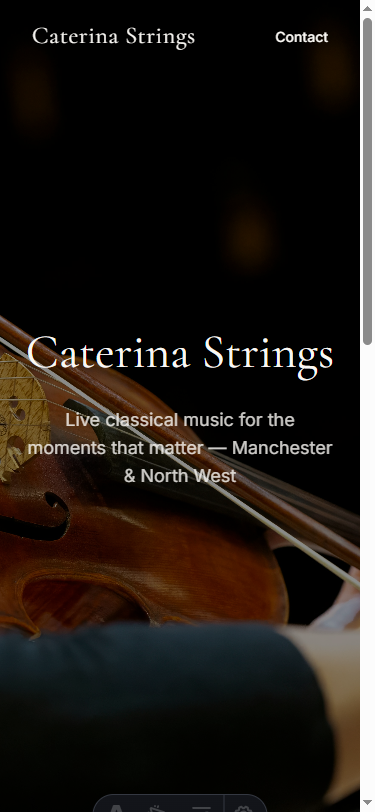
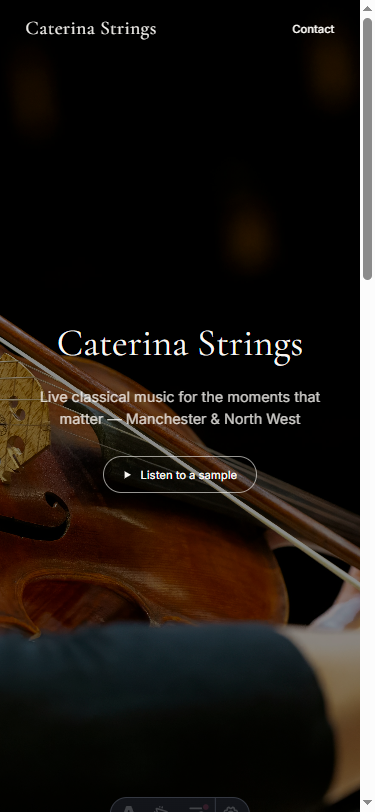
fix: card images, footer 3 colonne, listen button hero
- Card images: img netta in cima (330px desktop / 260px mobile), overlay rimossi, contenuto cream sotto
- Footer: 3 colonne brand/Explore/Get in Touch su desktop, stack mobile, copyright bottom bar
- Hero: ghost button Listen to a sample, pill, border cream/60%, icona play SVG, hover bg+scale

diff --git a/web/src/styles/global.css b/web/src/styles/global.css
@@ -40,3 +40,27 @@ h1, h2, h3, h4, h5, h6 {
 #site-header.scrolled a {
   color: var(--color-ink);
 }
+
+.card-img {
+  width: 100%;
+  height: 260px;
+  object-fit: cover;
+  object-position: center;
+  display: block;
+}
+
+@media (min-width: 768px) {
+  .card-img {
+    height: 330px;
+  }
+}
+
+.listen-btn {
+  background: transparent;
+  transition: background-color 0.2s ease, transform 0.2s ease;
+}
+
+.listen-btn:hover {
+  background-color: rgba(250, 248, 244, 0.1);
+  transform: scale(1.02);
+}